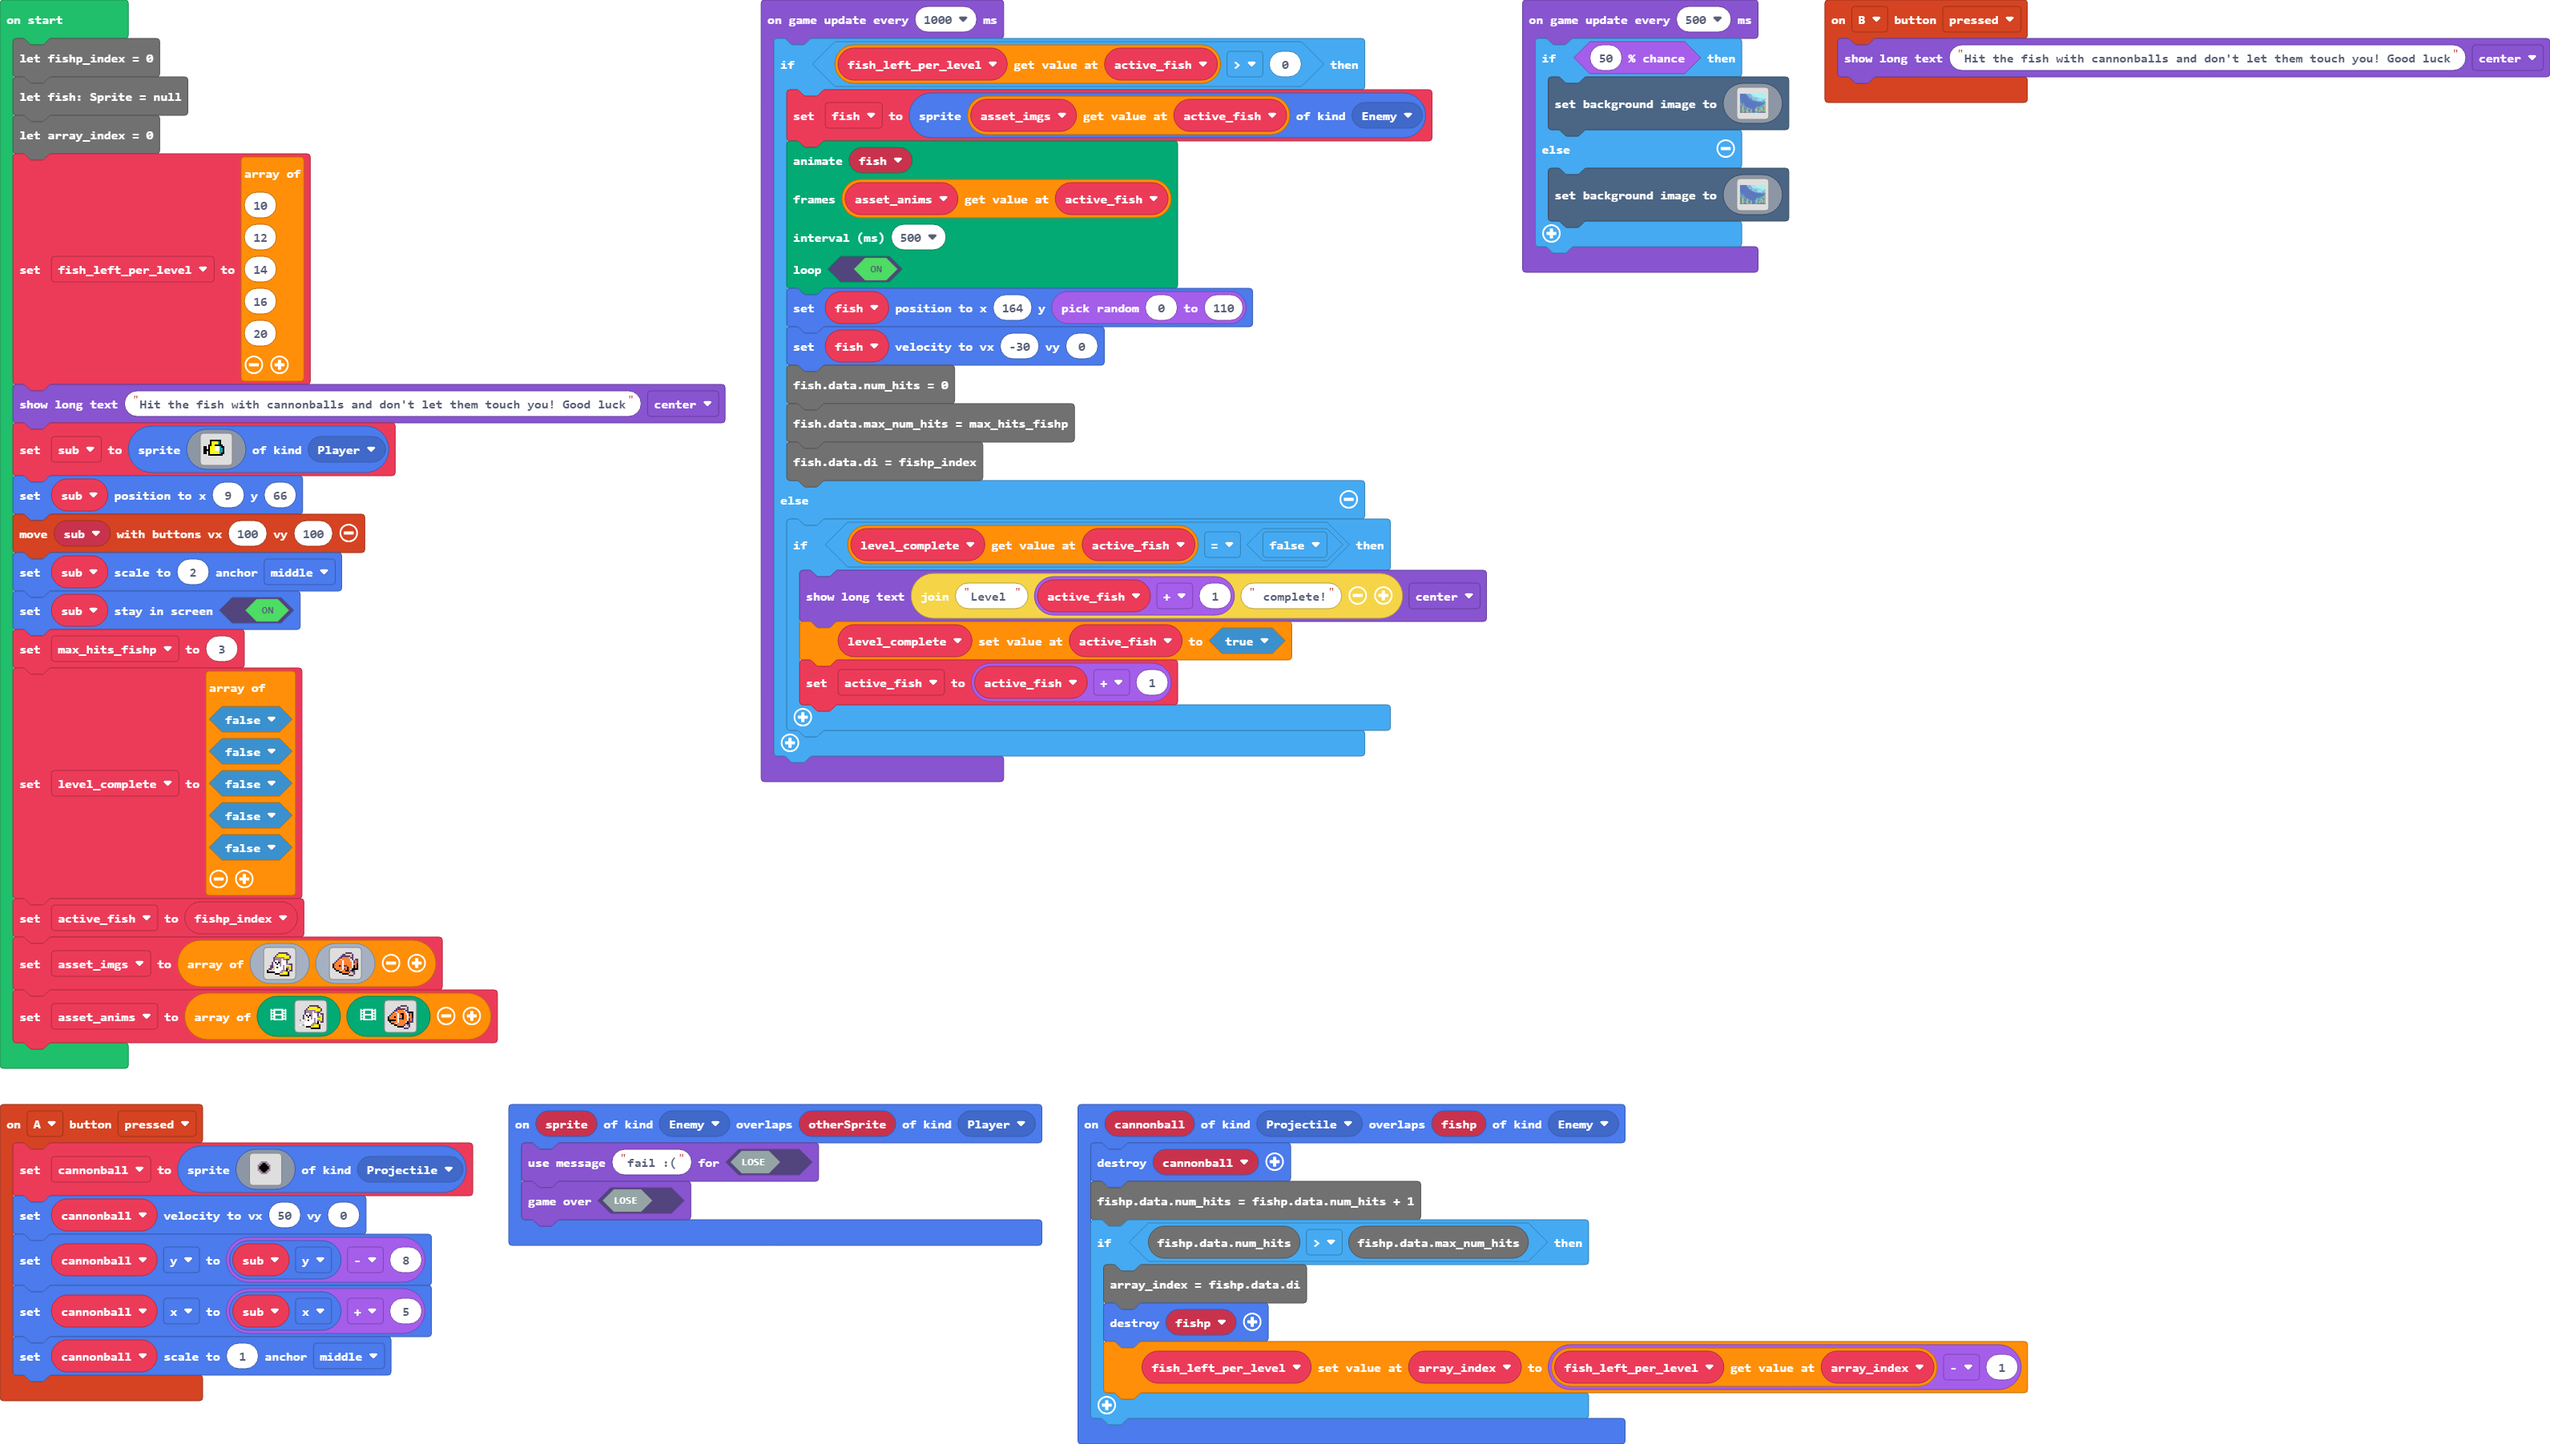
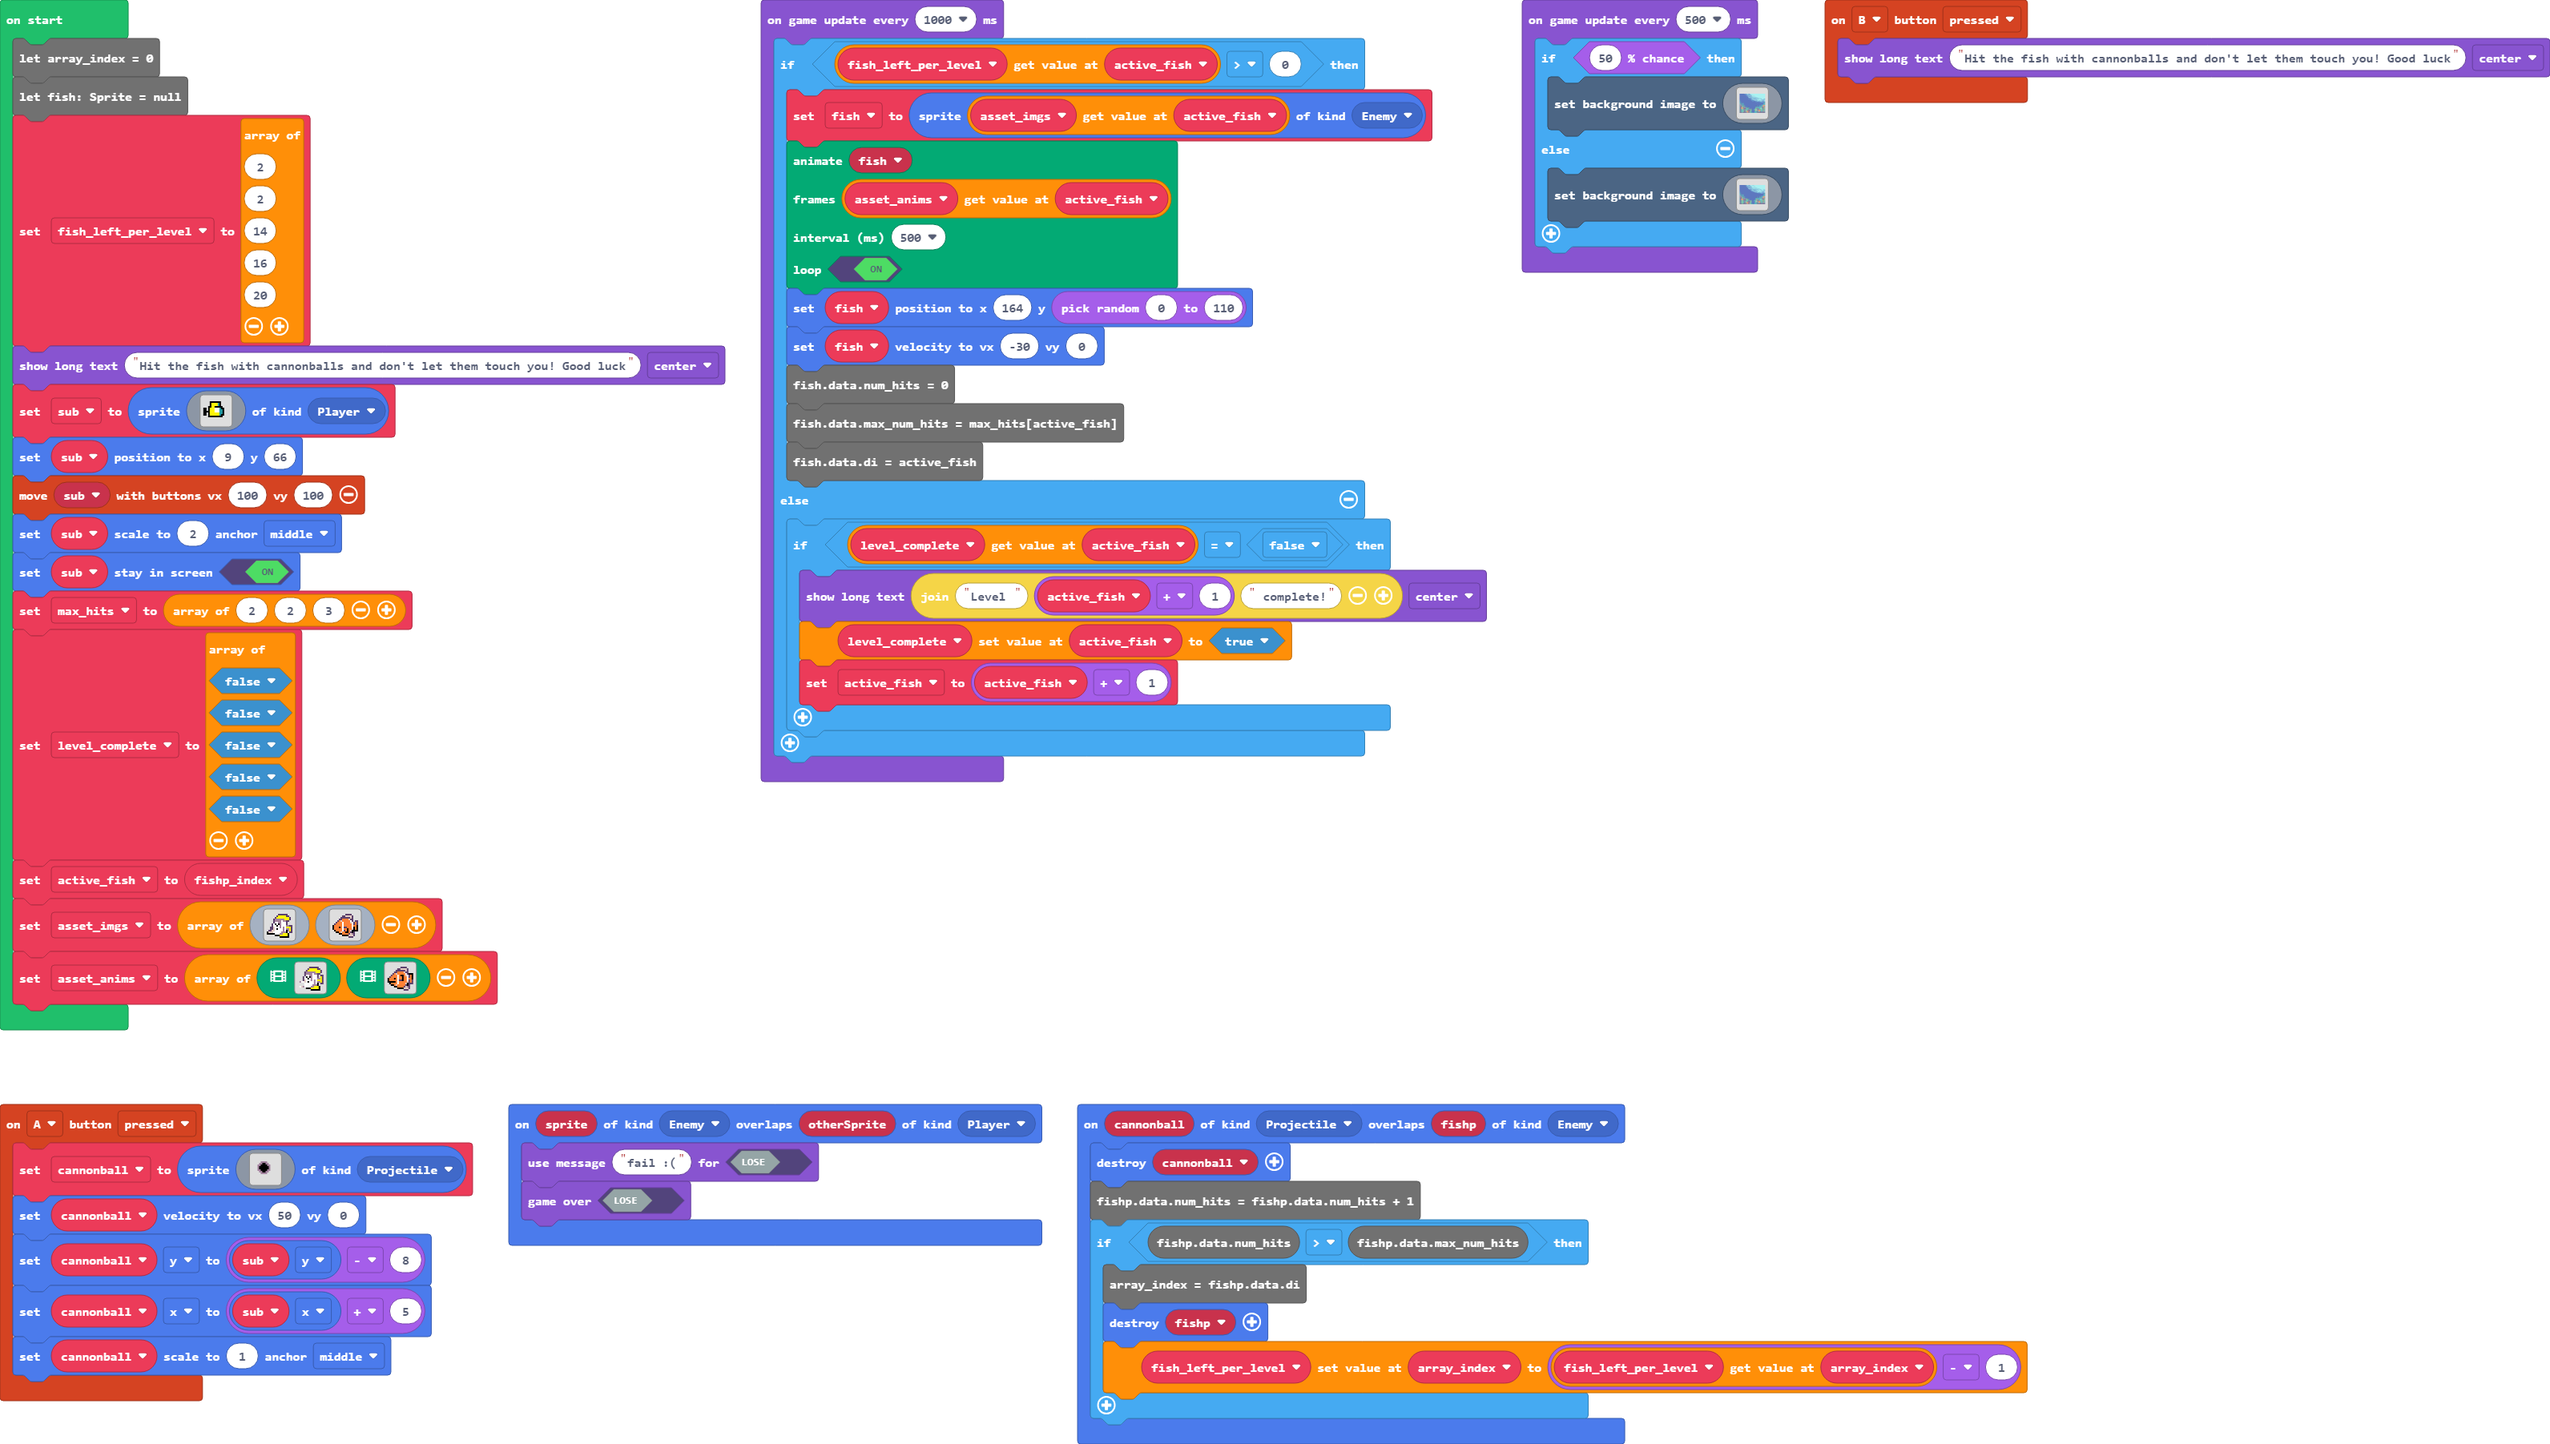
completed level 2 logic

Changed region(s): [[0.0, 0.0621, 0.311, 0.7454], [0.4043, 0.2795, 0.4665, 0.3106]]

diff --git a/main.ts b/main.ts
@@ -22,14 +22,14 @@ sprites.onOverlap(SpriteKind.Enemy, SpriteKind.Player, function (sprite, otherSp
     game.gameOver(false)
 })
 let cannonball: Sprite = null
+let fishp_index = 0
 let sub: Sprite = null
 let fish_left_per_level: number[] = []
-let fishp_index = 0
-let fish: Sprite = null
 let array_index = 0
+let fish: Sprite = null
 fish_left_per_level = [
-10,
-12,
+2,
+2,
 14,
 16,
 20
@@ -40,7 +40,7 @@ sub.setPosition(9, 66)
 controller.moveSprite(sub, 100, 100)
 sub.setScale(2, ScaleAnchor.Middle)
 sub.setStayInScreen(true)
-let max_hits_fishp = 3
+let max_hits = [2, 2, 3]
 let level_complete = [
 false,
 false,
@@ -63,8 +63,8 @@ game.onUpdateInterval(1000, function () {
         fish.setPosition(164, randint(0, 110))
         fish.setVelocity(-30, 0)
         fish.data.num_hits = 0
-fish.data.max_num_hits = max_hits_fishp
-fish.data.di = fishp_index
+fish.data.max_num_hits = max_hits[active_fish]
+fish.data.di = active_fish
     } else {
         if (level_complete[active_fish] == false) {
             game.showLongText("Level " + (active_fish + 1) + " complete!", DialogLayout.Center)
